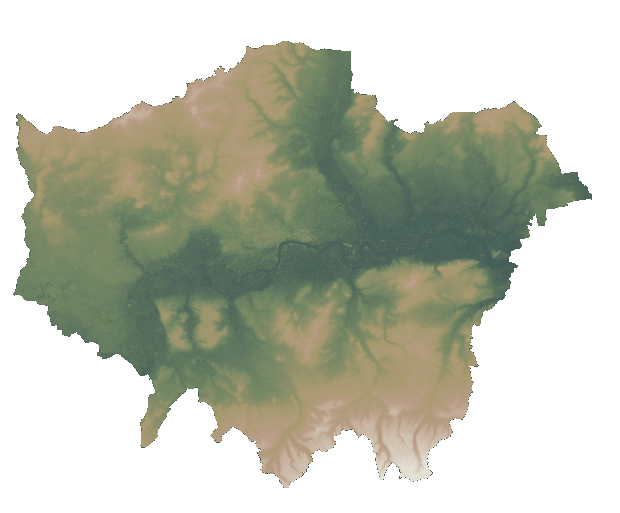
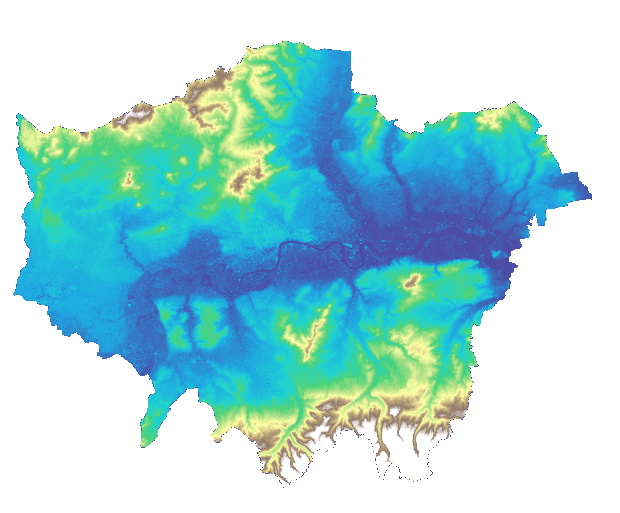
Add London emissivity MNDWI and Landsat summer layers

diff --git a/terraheat/terraheat-mapbox.js b/terraheat/terraheat-mapbox.js
@@ -206,6 +206,7 @@
     document.querySelector(`input[name=field][value=${field}]`).checked=true;updateFrame();
   }
   function updateFrame(){
+    $('#legend .temperature-ramp').style.background='';$('#legend>small').textContent='°C · DAILY FIELD';
     const field=state.field,index=state.frame,label=frameLabel(field,index),isModis=field==='modis',styleReady=map?.isStyleLoaded();
     if(styleReady){thermalLayers.forEach(id=>map.setLayoutProperty(id,'visibility',isModis?'none':'visible'));map.setLayoutProperty('modis-field','visibility',isModis?'visible':'none')}
     if(isModis){if(styleReady){cancelThermalTransition();map.getSource('modis-field').setTiles([modisUrl(modisDates[index])])}$('#legend-name').textContent='MODIS TERRA LST';$('#time-type').textContent='MODIS TERRA'}
@@ -225,6 +226,7 @@
     populateAnalysis(city,series);$('#analysis').classList.add('open');$('#analysis').setAttribute('aria-hidden','false');$('#welcome').classList.add('dismissed');
   }
   function activateLondonScene(mode){
+    $('#legend .temperature-ramp').style.background='';$('#legend>small').textContent='°C · SCENE';
     const scenes=londonScenes(),scene=scenes[mode]||scenes.event;state.landsatMode=mode;map.getSource('london-landsat').setTiles([landsatTile(scene)]);['london-landsat','london-mask','london-outline'].forEach(id=>map.setLayoutProperty(id,'visibility','visible'));
     state.researchLayer='none';map.setLayoutProperty('london-research','visibility','none');document.querySelectorAll('[data-research-layer]').forEach(button=>button.classList.toggle('active',button.dataset.researchLayer==='none'));
     $('#urban-raster').hidden=false;$('#urban-raster-name').textContent=`${String(scene.platform||'Landsat').toUpperCase()} LST`;$('#urban-raster-meta').textContent=`${shortDate(scene.date)} · 30 m output grid · ${Number(scene.cloudCover).toFixed(2)}% scene cloud · GLA boundary clip`;
@@ -249,7 +251,10 @@
       ndwi:{name:'SUMMER NDWI',ticks:['−0.5','−0.1','0','0.2','0.6']},
       elevation:{name:'ELEVATION',ticks:['0','25','60','120','220 m']},
       aef:{name:'ALPHAEARTH EMBEDDING',ticks:['64D','→','RGB','→','VIEW']}
-    },legend=legends[id];$('#legend').dataset.field=id;$('#legend-name').textContent=legend.name;$('#legend-date').textContent=id==='elevation'?'STATIC':'2022';$('#legend-ticks').innerHTML=legend.ticks.map(value=>`<span>${value}</span>`).join('');
+    },legend=legends[id]||{name:layer.title.toUpperCase()};
+    const ramp=$('#legend .temperature-ramp');ramp.style.background=layer.colors?`linear-gradient(90deg,${layer.colors.join(',')})`:'';
+    const ticks=layer.range?Array.from({length:5},(_,i)=>{const value=layer.range[0]+(layer.range[1]-layer.range[0])*i/4;return value.toFixed(id==='emissivity'?3:layer.unit==='unitless'?2:1)}):legend.ticks;
+    $('#legend').dataset.field=id;$('#legend-name').textContent=legend.name;$('#legend-date').textContent=id==='elevation'?'STATIC':'JJA 2022';$('#legend-ticks').innerHTML=ticks.map(value=>`<span>${value}</span>`).join('');$('#legend>small').textContent=layer.unit?`${layer.unit} · 2–98% DISPLAY RANGE`:'64D EMBEDDING · RGB VIEW';
     $('#analysis-status').textContent='RESEARCH CONTEXT';$('#analysis-story').textContent=layer.note;$('#analysis-note').textContent='Environmental layers are descriptive research inputs. Comparisons with heat do not establish causation; modelling outputs require validation and uncertainty reporting.';
   }
   function resetMetricLabels(){

diff --git a/terraheat/index.html b/terraheat/index.html
@@ -115,7 +115,10 @@
         <div class="research-heading"><span>AEF RESEARCH DEMONSTRATOR</span><b>London · summer 2022</b><small>Choose one environmental layer. Roads, labels and the GLA boundary stay visible for orientation.</small></div>
         <div class="research-layers" role="group" aria-label="London environmental layer">
           <button type="button" data-research-layer="lst-summer"><i class="research-swatch lst-summer"></i><span><b>Summer LST</b><small>MODIS · 1 km</small></span></button>
-          <button type="button" data-research-layer="ndvi"><i class="research-swatch ndvi"></i><span><b>Vegetation</b><small>NDVI · 500 m</small></span></button>
+          <button type="button" data-research-layer="ndvi"><i class="research-swatch ndvi"></i><span><b>Vegetation</b><small>Landsat 8 NDVI · 30 m</small></span></button>
+          <button type="button" data-research-layer="emissivity"><i class="research-swatch emissivity"></i><span><b>Surface emissivity</b><small>MODIS · 1 km</small></span></button>
+          <button type="button" data-research-layer="mndwi"><i class="research-swatch mndwi"></i><span><b>Modified water index</b><small>MNDWI · 30 m</small></span></button>
+          <button type="button" data-research-layer="lst-landsat"><i class="research-swatch lst-landsat"></i><span><b>Summer LST</b><small>Landsat 8 · 30 m grid</small></span></button>
           <button type="button" data-research-layer="ndwi"><i class="research-swatch ndwi"></i><span><b>Water signal</b><small>NDWI · 30 m</small></span></button>
           <button type="button" data-research-layer="elevation"><i class="research-swatch elevation"></i><span><b>Elevation</b><small>NASADEM · 30 m</small></span></button>
           <button type="button" data-research-layer="aef"><i class="research-swatch aef"></i><span><b>AEF embedding</b><small>64D projection · 10 m source</small></span></button>

diff --git a/terraheat/terraheat-mapbox.css b/terraheat/terraheat-mapbox.css
@@ -39,3 +39,4 @@
 @media(max-width:1000px){.analysis{width:390px}.story-card{left:18px;bottom:86px}}
 @media(max-width:700px){.story-button{display:block!important}.mast-actions{gap:5px}.story-button{position:absolute;right:76px;top:0}.heat-story{z-index:34}.story-card{left:12px;right:12px;bottom:88px;width:auto;padding:18px 19px}.story-card h2{font-size:25px}.london-research{margin-top:12px}.research-layers{grid-template-columns:1fr 1fr}}
 .play{display:grid;place-items:center}.play span{line-height:1}.play.playing span{width:10px;height:12px;font-size:0;transform:none;background:linear-gradient(90deg,currentColor 0 3px,transparent 3px 7px,currentColor 7px 10px)}
+.research-swatch.lst-summer,.research-swatch.lst-landsat{background:linear-gradient(#fcffa4,#fca50a,#dd513a,#932667,#420a68,#000004)}.research-swatch.ndvi{background:linear-gradient(#004529,#31a354,#addd8e,#ffffe5)}.research-swatch.ndwi{background:linear-gradient(#01665e,#80cdc1,#f5f5f5,#dfc27d,#8c510a)}.research-swatch.mndwi{background:linear-gradient(#014636,#02818a,#67a9cf,#d0d1e6,#fff7fb)}.research-swatch.emissivity{background:linear-gradient(#fde725,#35b779,#21918c,#31688e,#440154)}.research-swatch.elevation{background:linear-gradient(#ffffff,#806655,#ffff99,#33cc66,#00cccc,#333399)}
